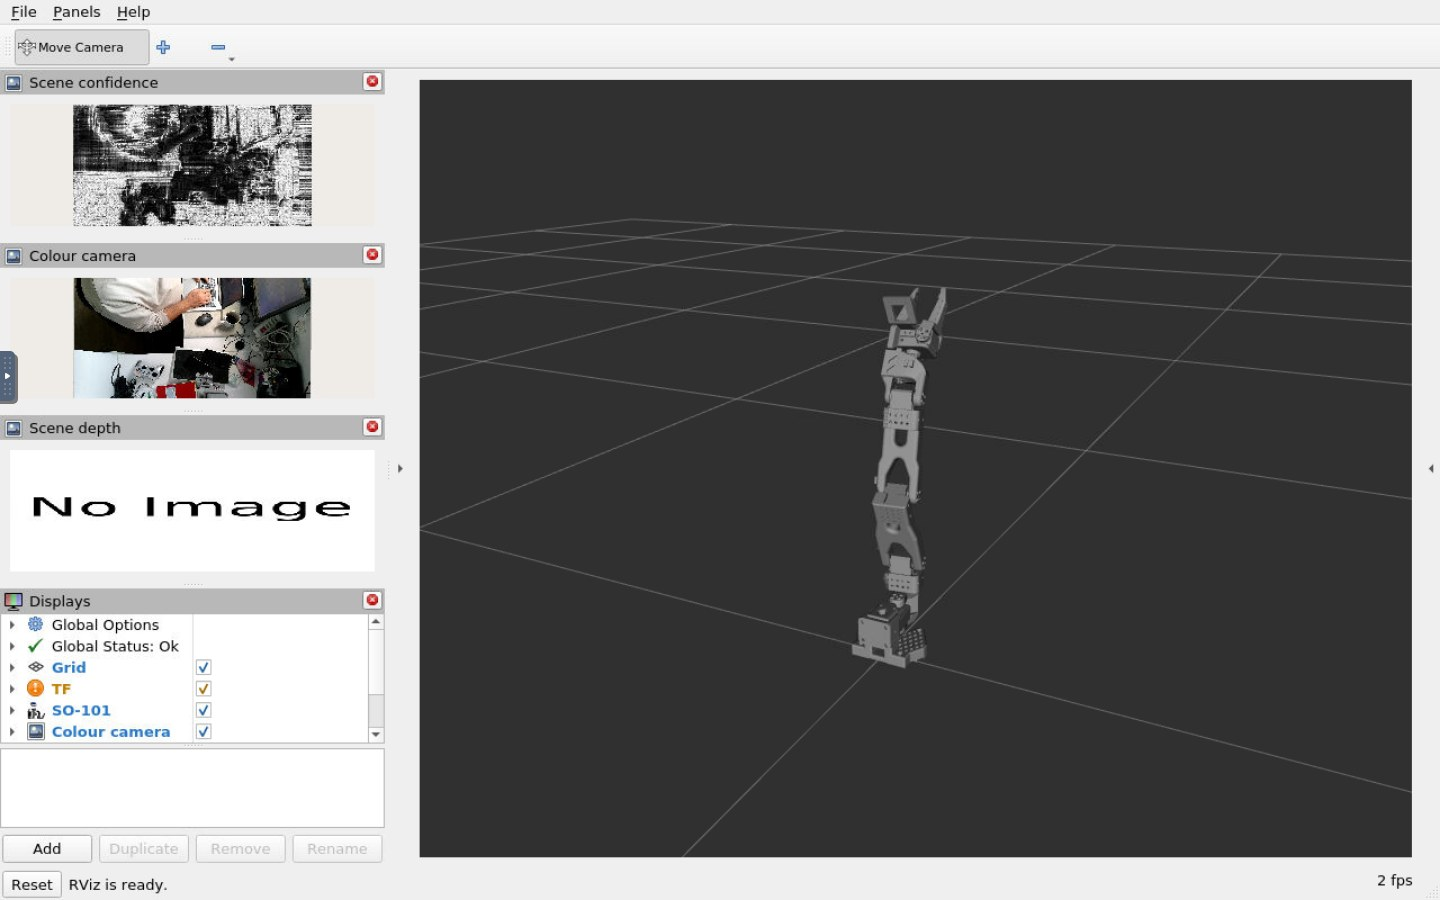
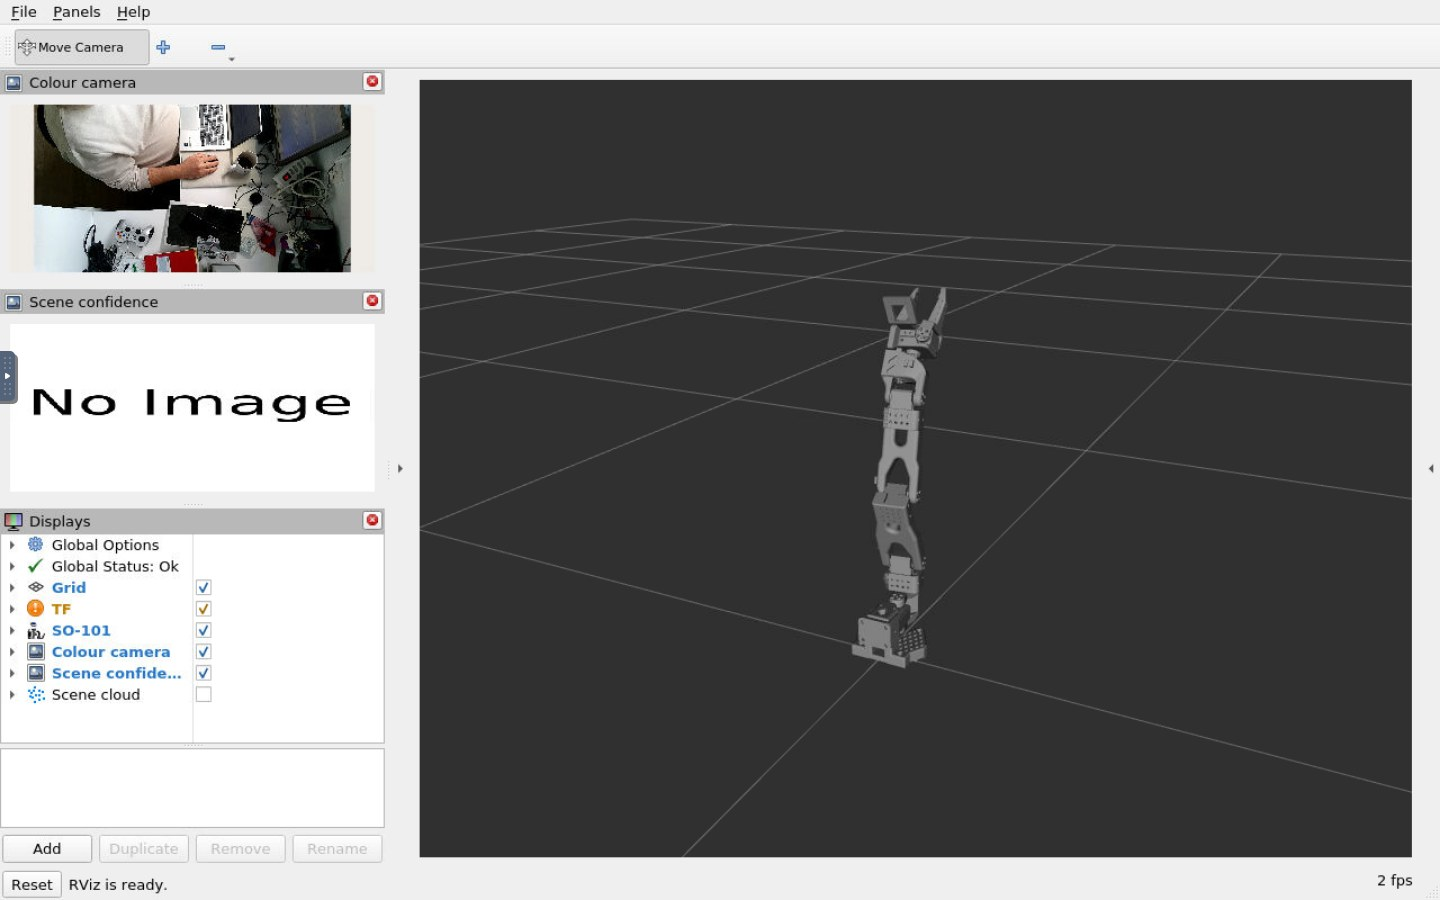
feat(web,rviz): depth moves to the stereo tab, which becomes 'Stereo Cam & Depth'
RViz on this board renders with llvmpipe and the image panels fight the 3D view for it:
three panels and the arm stops being drawn. The depth display is gone from rviz.rviz and
the map is served by the camera page instead — a third panel under the rectified pair,
same MJPEG server, no renderer cost. Colour and confidence stay in RViz.

Changed region(s): [[0.0, 0.0622, 0.2812, 0.4978], [0.0, 0.56, 0.2812, 0.84], [0.25, 0.7778, 0.2812, 0.8089]]

diff --git a/docker/web/index.html b/docker/web/index.html
@@ -24,7 +24,7 @@
   <button id="torque" title="Energise the servos (arm is free to move by hand until then)">Torque brazo</button>
   <span class="sep"></span>
   <button class="active" data-tab="term">Terminal</button>
-  <button data-tab="stereo">Stereo Cam</button>
+  <button data-tab="stereo">Stereo Cam &amp; Depth</button>
   <button data-tab="cloud">Point Cloud</button>
   <button data-tab="graph">Graph</button>
   <button data-tab="rviz">RViz</button>

diff --git a/docker/ws/cams/mjpeg_view.py b/docker/ws/cams/mjpeg_view.py
@@ -4,7 +4,7 @@ Re-serves the latest JPEG of three streams so the framing can be checked from an
 browser on the LAN without ROS tooling:
 
     http://<jetson-ip>:8090/               colour page, with the aiming grid
-    http://<jetson-ip>:8090/stereo         the two rectified views the stereo runs on
+    http://<jetson-ip>:8090/stereo         the two rectified views plus the depth map
     http://<jetson-ip>:8090/<name>/stream  MJPEG stream (name = color | left | right)
     http://<jetson-ip>:8090/<name>/snapshot  one JPEG
     http://<jetson-ip>:8090/<name>/state     size, fps, age
@@ -27,6 +27,8 @@ STREAMS = {
     "color": "/oak/scene/color/compressed",
     "left": "/oak/scene/left/compressed",
     "right": "/oak/scene/right/compressed",
+    # the colourised depth view published by oak_views — 5 Hz is plenty for a map
+    "depth": "/oak/scene/depth/color/compressed",
 }
 DEFAULT = "color"
 
@@ -113,20 +115,23 @@ STEREO_PAGE = """<!doctype html><html><head><meta charset="utf-8"><title>OAK ste
  header{padding:9px 14px;background:#141b2a;border-bottom:1px solid #263042;
         display:flex;gap:18px;align-items:center}
  .pair{display:grid;grid-template-columns:1fr 1fr;gap:6px;padding:6px}
+ .pair .wide{grid-column:1 / span 2}
  .cam{position:relative;background:#0f1828;border:1px solid #263042;border-radius:6px;overflow:hidden}
  .cam img{display:block;width:100%;height:auto}
  .tag{position:absolute;left:8px;top:6px;padding:2px 7px;border-radius:4px;
       background:#0b1220cc;color:#3fb950;font-weight:700;letter-spacing:.04em}
+ .tag.depth{color:#fbbf24}
  .base{position:absolute;right:8px;top:6px;padding:2px 7px;border-radius:4px;
        background:#0b1220cc;color:#8d99ad;font-variant-numeric:tabular-nums}
  b{color:#3fb950} a{color:#d99036}
 </style></head><body>
-<header><b>stereo pair</b>
-  <span style="color:#8d99ad">rectified left / right — exactly the images the depth is computed from</span>
+<header><b>stereo pair &amp; depth</b>
+  <span style="color:#8d99ad">the two rectified views the depth is computed from, and the depth map itself</span>
   <span style="margin-left:auto"><a href="/">colour</a></span></header>
 <div class="pair">
   <div class="cam"><img src="/left/stream"><div class="tag">LEFT · CAM_B</div><div class="base" id="ml"></div></div>
   <div class="cam"><img src="/right/stream"><div class="tag">RIGHT · CAM_C</div><div class="base" id="mr"></div></div>
+  <div class="cam wide"><img src="/depth/stream"><div class="tag depth">DEPTH · 0–2 m</div><div class="base" id="md"></div></div>
 </div>
 <script>
 function poll(name, el){
@@ -135,7 +140,7 @@ function poll(name, el){
       s.w+'x'+s.h+' · '+s.fps.toFixed(1)+' fps'+(s.age > 3 ? ' · stale' : '');
   }).catch(()=>{});}, 1000);
 }
-poll('left', 'ml'); poll('right', 'mr');
+poll('left', 'ml'); poll('right', 'mr'); poll('depth', 'md');
 </script></body></html>"""
 
 

diff --git a/README.md b/README.md
@@ -29,7 +29,7 @@ the URDF comes from, so it cannot drift.
 - **[4. Camera setup — depthai on the Xavier](#4-camera-setup--depthai-on-the-xavier)**
 - **[5. Container stack — how the Xavier runs the robot](#5-container-stack--how-the-xavier-runs-the-robot)**
   - [5.1 How to create the containers](#51-how-to-create-the-containers)
-- **[6. Web interface — Terminal · Stereo · Cloud · Graph · RViz](#6-web-interface--terminal--stereo--cloud--graph--rviz)**
+- **[6. Web interface — Terminal · Stereo & Depth · Cloud · Graph · RViz](#6-web-interface--terminal--stereo--depth--cloud--graph--rviz)**
   - [6.1 Torque switch — the red button](#61-torque-switch--the-red-button)
   - [6.2 What runs inside `so100-web`](#62-what-runs-inside-so100-web)
   - [6.3 The image: the **desktop** dusty image, no compiling](#63-the-image-the-desktop-dusty-image-no-compiling)
@@ -238,28 +238,37 @@ Notes (traps we hit — read before changing the stack):
 - dusty images ship an expired ROS apt key: `rm /etc/apt/sources.list.d/*ros*` before `apt-get update` in new Dockerfiles.
 - Docker auto-creates missing bind-mount folders root-owned — pre-create them (the provision script does).
 
-## 6. Web interface — Terminal · Stereo · Cloud · Graph · RViz
+## 6. Web interface — Terminal · Stereo & Depth · Cloud · Graph · RViz
 
 One page at **http://<xavier-ip>/** with five tabs, served by the `so100-web` container. The examples below use the generic address `192.168.1.50` — substitute your own Xavier's LAN address everywhere it appears.
 
 | Tab | URL (direct) | What you see |
 |---|---|---|
 | **Terminal** | http://192.168.1.50:7681 | a writable shell **inside the web container**, with the ROS2 environment sourced — the first tab, because it is the cheap one |
-| **Stereo Cam** | http://192.168.1.50:8090/stereo | the two **rectified** mono views (LEFT · CAM_B, RIGHT · CAM_C) — exactly the images the depth map is computed from, with their resolution and fps |
+| **Stereo Cam & Depth** | http://192.168.1.50:8090/stereo | the two **rectified** mono views (LEFT · CAM_B, RIGHT · CAM_C) — exactly the images the depth map is computed from, each with its own rate — and, below them, the **depth map** (0–2 m, turbo colormap) |
 | **Point Cloud** | http://192.168.1.50:8091/ | the `/oak/scene/points` cloud in 3D (three.js): drag to orbit, wheel to zoom, colour = distance from the cloud centre |
 | **Graph** | http://192.168.1.50:6081/vnc.html | rqt_graph: every node/topic in the cell and how they connect |
-| **RViz** | http://192.168.1.50:6080/vnc.html | RViz2: the SO-101 arm with its live pose, the grid, TF and the OAK-D camera image. **Started on demand** — see below |
+| **RViz** | http://192.168.1.50:6080/vnc.html | RViz2: the SO-101 arm with its live pose, the grid, TF and the colour/confidence panels. **Started on demand** — see below |
 
 What each tab actually looks like, captured on the bench (2026-11-10):
 
 | | |
 |---|---|
 | ![Terminal tab](docs/web-terminal.jpg) | ![Stereo Cam tab](docs/web-stereo.jpg) |
-| **Terminal** — a shell inside the web container: `ros2 topic list` shows the cell's topics | **Stereo Cam** — the rectified pair the depth is built from, each with its own rate |
+| **Terminal** — a shell inside the web container: `ros2 topic list` shows the cell's topics | **Stereo Cam & Depth** — the rectified pair the depth is built from, and the depth map below |
 | ![Point Cloud tab](docs/web-pointcloud.jpg) | ![Graph tab](docs/web-graph.jpg) |
 | **Point Cloud** — the cloud in 3D, drag to orbit, wheel to zoom | **Graph** — rqt_graph: who publishes what to whom |
 | ![RViz tab](docs/web-rviz.jpg) | |
 | **RViz** — the SO-101 at its live pose, `Global Status: Ok` | |
+
+**The depth map lives in the Stereo tab, not in RViz.** RViz here draws with llvmpipe (no
+GPU path for Qt on this board), and the image panels compete with the 3D view for the same
+software renderer: with three panels plus the arm the model silently stops being drawn
+(the counter drops to ~9 fps and the grid stays empty), with two it renders at 2 fps. So the
+depth display was removed from `rviz.rviz` and the depth map moved to the Stereo tab, where
+it costs nothing — that page is plain MJPEG. Colour and confidence stay in RViz, and if one of
+them ever comes up as "No Image", that is the same contention: restarting RViz usually
+settles it.
 
 **RViz only runs while its tab is on screen.** It is the most expensive thing in the cell:
 software GL (`LIBGL_ALWAYS_SOFTWARE=1`, there is no GPU path for Qt here) keeps **~155 % of a
